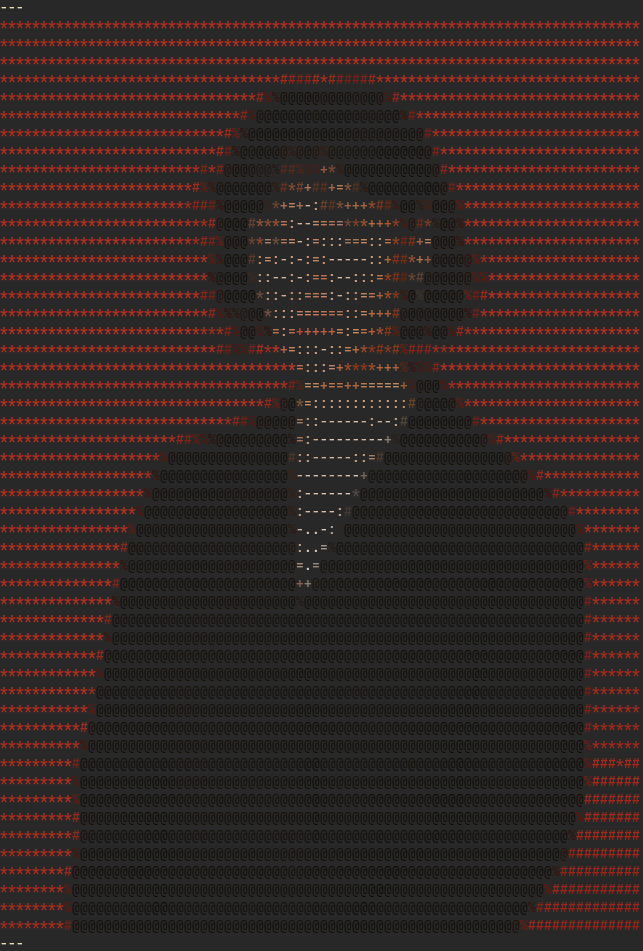
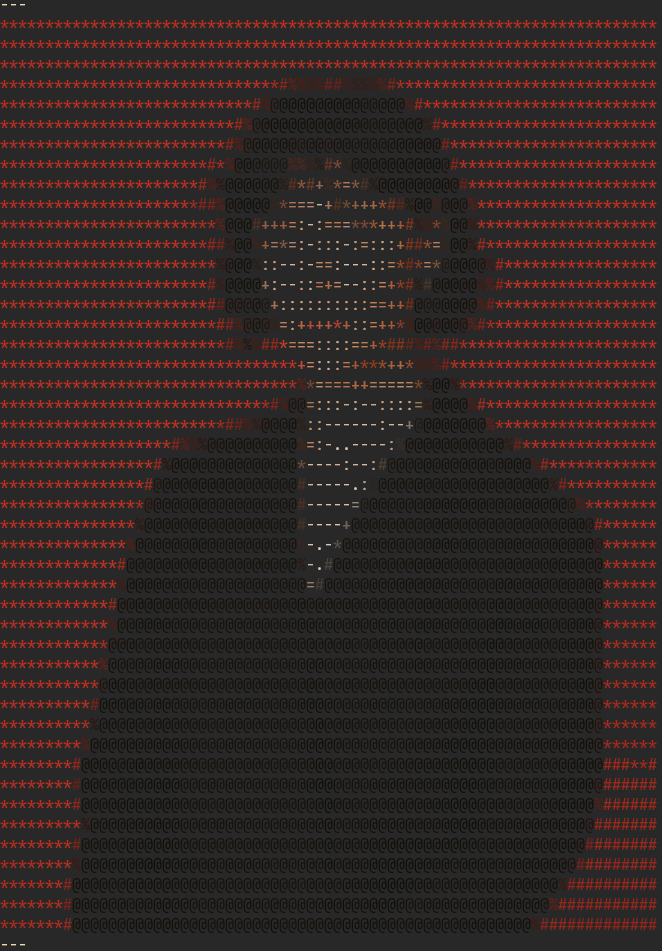
docs: update README example output and regenerate portrait1 artifacts

diff --git a/c/ascii_art/README.md b/c/ascii_art/README.md
@@ -15,46 +15,39 @@ A simple C program that converts images to ASCII art with optional color support
 ### ASCII ART (Plain Text, width: 50)
 
 ```
----
-************************************************************
-************************************************************
-***************************###*####*************************
-************************#%@@@@@@@@@@%#**********************
-**********************#@@@@@@@@@@@@@@@@#********************
-*********************%@@@@@%@@%@@@@@@@@@%*******************
-******************##%@@@@@%##%+*%@@@@@@@@%******************
-******************##%@@@@%*++=%*+*#%%@@@@@%*****************
-*******************#%@@#*+=:-:==**++*#@##@@#****************
-*******************#%@@#++=:-=:-:=::+##+*@@%****************
-*******************#%@@%::-:-==---:=*#**%@@@%#**************
-*******************#%@@@+:-::==-::=+*#@%@@@%##**************
-********************#%%@@+:=++++::=+*%@@@@@%#***************
-********************##@%#*===:::==+*#%%%###*****************
-***************************+=::=+**++*%%%*******************
-**************************#%+:====:=:=#@@@#*****************
-***********************#%%@%=:----::-:%@@@@%#***************
-****************##%%%@@@@@@%::------+@@@@@@@@%#*************
-**************#@@@@@@@@@@@@*------+%@@@@@@@@@@@@%#**********
-*************#@@@@@@@@@@@@@#-----+@@@@@@@@@@@@@@@@%#********
-*************@@@@@@@@@@@@@@#----*@@@@@@@@@@@@@@@@@@@@%******
-************%@@@@@@@@@@@@@@#..-#@@@@@@@@@@@@@@@@@@@@@@%*****
-***********#@@@@@@@@@@@@@@@%--%@@@@@@@@@@@@@@@@@@@@@@@@*****
-***********@@@@@@@@@@@@@@@@@=%@@@@@@@@@@@@@@@@@@@@@@@@@*****
-**********%@@@@@@@@@@@@@@@@@@@@@@@@@@@@@@@@@@@@@@@@@@@@*****
-**********@@@@@@@@@@@@@@@@@@@@@@@@@@@@@@@@@@@@@@@@@@@@@*****
-*********#@@@@@@@@@@@@@@@@@@@@@@@@@@@@@@@@@@@@@@@@@@@@@*****
-*********%@@@@@@@@@@@@@@@@@@@@@@@@@@@@@@@@@@@@@@@@@@@@@*****
-********#@@@@@@@@@@@@@@@@@@@@@@@@@@@@@@@@@@@@@@@@@@@@@@*****
-********%@@@@@@@@@@@@@@@@@@@@@@@@@@@@@@@@@@@@@@@@@@@@@@*****
-*******%@@@@@@@@@@@@@@@@@@@@@@@@@@@@@@@@@@@@@@@@@@@@@@@#*#*#
-*******@@@@@@@@@@@@@@@@@@@@@@@@@@@@@@@@@@@@@@@@@@@@@@@@#####
-*******%@@@@@@@@@@@@@@@@@@@@@@@@@@@@@@@@@@@@@@@@@@@@@@%#####
-*******%@@@@@@@@@@@@@@@@@@@@@@@@@@@@@@@@@@@@@@@@@@@@@@######
-*******@@@@@@@@@@@@@@@@@@@@@@@@@@@@@@@@@@@@@@@@@@@@@@%######
-******#@@@@@@@@@@@@@@@@@@@@@@@@@@@@@@@@@@@@@@@@@@@@@########
-******%@@@@@@@@@@@@@@@@@@@@@@@@@@@@@@@@@@@@@@@@@@@%#########
-******%@@@@@@@@@@@@@@@@@@@@@@@@@@@@@@@@@@@@@@@@@@###########
---- 
+**************************************************
+**************************************************
+*********************#%%%%%%%%#*******************
+*******************%@@@@@@@@@@@%#*****************
+*****************#%@@@@@@@@@@@@@@%****************
+***************##%@@@%##%*#@@@@@@@%***************
+***************#%@@@@#+=:#++*#%@@%@%**************
+****************#%@#+*=-:==*+=+##*@@#*************
+****************#@@%=::-=:--::*#+#@@%#************
+****************%@@@=:::==-::+*%%@@@%#************
+****************#%%@%=:==+=:=+*%@@@@%#************
+*****************#%%#*==:::=+**%###***************
+***********************+:=+*++=*@%#***************
+********************##@*:::::::=%@@%#*************
+***************##%%@@@@=:-----=%@@@@@%#***********
+************#@@@@@@@@@@:----:#@@@@@@@@@@%*********
+***********%@@@@@@@@@@@:---:%@@@@@@@@@@@@@%#******
+**********#@@@@@@@@@@@@:--=@@@@@@@@@@@@@@@@@%#****
+*********#@@@@@@@@@@@@@:.+@@@@@@@@@@@@@@@@@@@%****
+*********%@@@@@@@@@@@@@=*@@@@@@@@@@@@@@@@@@@@@****
+********#@@@@@@@@@@@@@@@@@@@@@@@@@@@@@@@@@@@@%****
+********%@@@@@@@@@@@@@@@@@@@@@@@@@@@@@@@@@@@@%****
+********@@@@@@@@@@@@@@@@@@@@@@@@@@@@@@@@@@@@@%****
+*******%@@@@@@@@@@@@@@@@@@@@@@@@@@@@@@@@@@@@@%****
+*******@@@@@@@@@@@@@@@@@@@@@@@@@@@@@@@@@@@@@@%****
+******%@@@@@@@@@@@@@@@@@@@@@@@@@@@@@@@@@@@@@@@*#**
+*****#@@@@@@@@@@@@@@@@@@@@@@@@@@@@@@@@@@@@@@@@####
+******@@@@@@@@@@@@@@@@@@@@@@@@@@@@@@@@@@@@@@@%####
+******%@@@@@@@@@@@@@@@@@@@@@@@@@@@@@@@@@@@@@@#####
+*****#@@@@@@@@@@@@@@@@@@@@@@@@@@@@@@@@@@@@@@######
+*****%@@@@@@@@@@@@@@@@@@@@@@@@@@@@@@@@@@@@%#######
+*****%@@@@@@@@@@@@@@@@@@@@@@@@@@@@@@@@@@@#########
+
 ```
 
 ## Features
